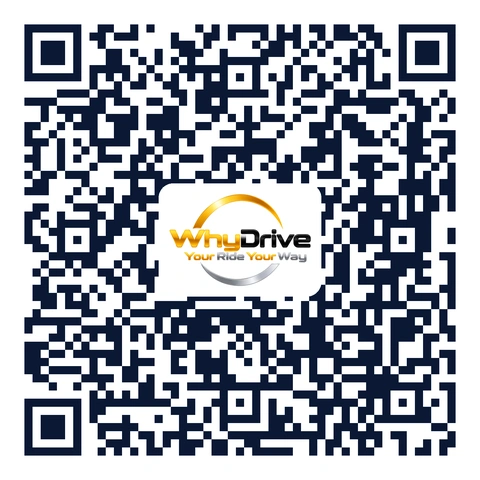
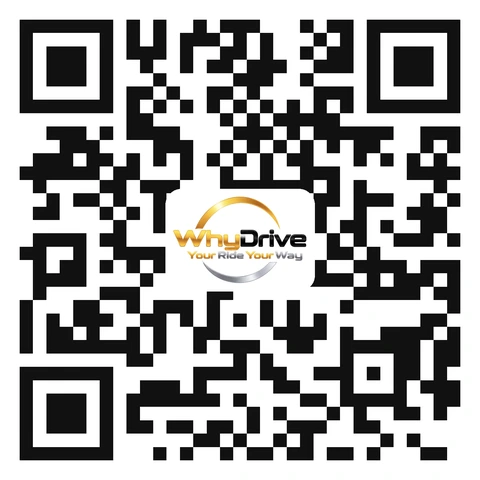
Website QR code uses whydrive.co.uk/go: Android opens the WhyDrive app on Google Play, other phones open the booking app
Claude-Session: https://claude.ai/code/session_016nVKHedwcAEMK7qt7Zo1xt

diff --git a/whydrive-site/public/index.html b/whydrive-site/public/index.html
@@ -355,12 +355,12 @@
         </ul>
         <div class="btn-row mt-2">
           <a class="btn btn-gold" href="/book/?utm_source=whydrive.co.uk&amp;utm_medium=website&amp;utm_campaign=home-scan" rel="noopener">Open the booking app <svg aria-hidden="true"><use href="#i-arrow-up-right"/></svg></a>
-          <a class="btn btn-outline-light" href="/assets/img/qr/whydrive-book-qr.png" download="WhyDrive-booking-QR.png">Download QR code</a>
+          <a class="btn btn-outline-light" href="/assets/img/qr/whydrive-book-qr.png?v=go" download="WhyDrive-booking-QR.png">Download QR code</a>
         </div>
       </div>
       <div class="qr-stage reveal">
         <div class="qr-frame">
-          <img src="/assets/img/qr/whydrive-book-qr-480.webp" width="480" height="480" alt="QR code that opens the WhyDrive booking app at whydrive.co.uk/book" loading="lazy">
+          <img src="/assets/img/qr/whydrive-book-qr-480.webp?v=go" width="480" height="480" alt="QR code: Android phones open the WhyDrive app on Google Play, other phones open the booking app at whydrive.co.uk/go" loading="lazy">
         </div>
         <p class="qr-cap">Scan to book a local taxi</p>
       </div>
